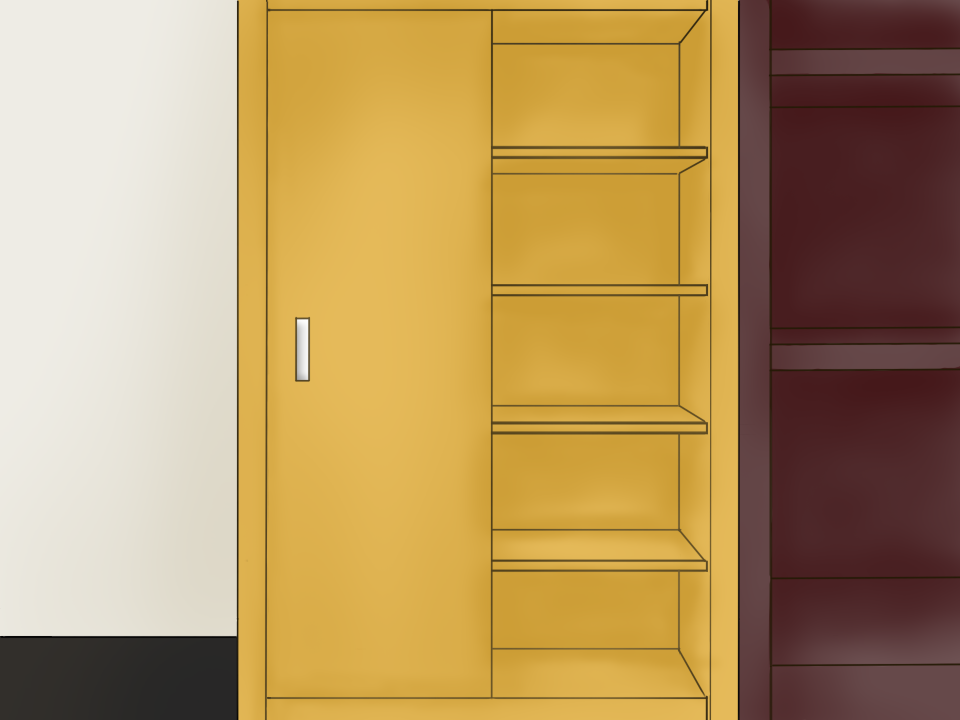
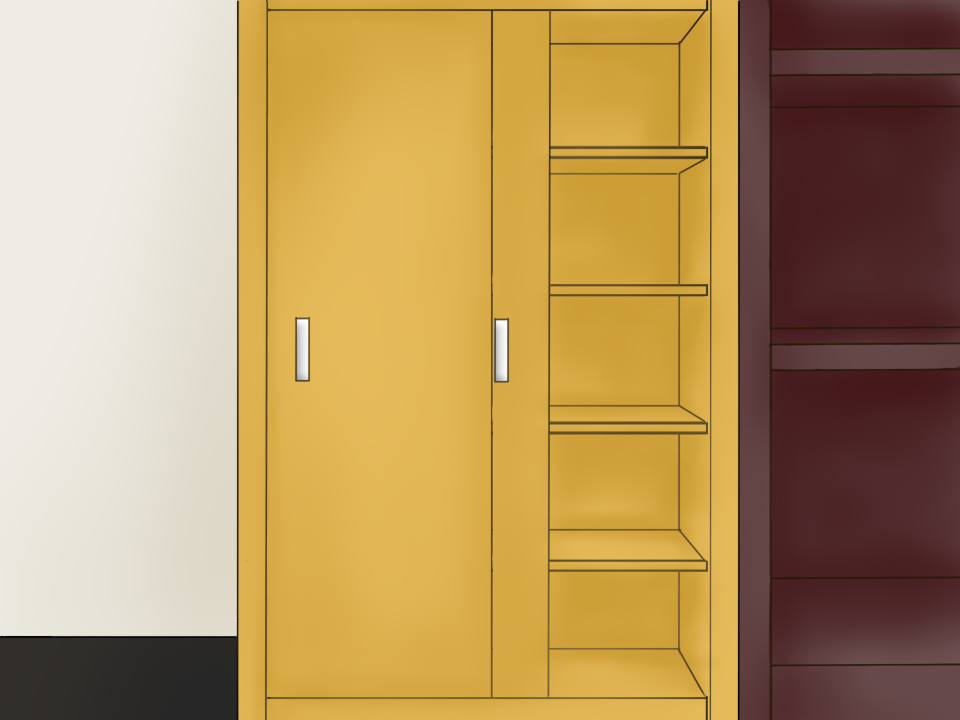
update UI

diff --git a/EscapeGames/Assets/Scripts/SetupSlidingDoor.cs b/EscapeGames/Assets/Scripts/SetupSlidingDoor.cs
@@ -14,9 +14,9 @@ public class SetupSlidingDoor : MonoBehaviour
     public Collider2D scissors;
     public GameObject door;
     private Vector2 rightclose = new Vector2(1.19f, 0.14f);
-    private Vector2 rightopen = new Vector2(-1.63f, 0.11f);
+    private Vector2 rightopen = new Vector2(-1.0f, 0.11f);
     private Vector2 leftclose = new Vector2(-3.80f, 0.16f);
-    private Vector2 leftopen = new Vector2(-1.02f, 0.11f);
+    private Vector2 leftopen = new Vector2(-0.76f, 0.11f);
     void Start() {
         Player = InheritPlayer.Instance;
         Setup();
